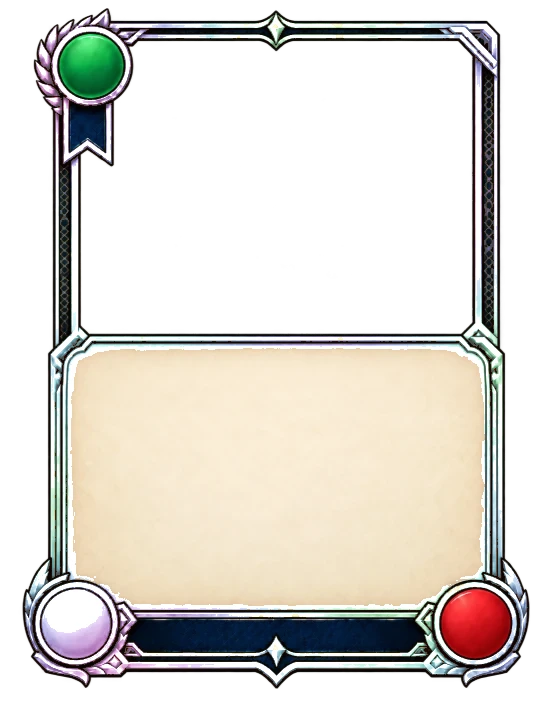
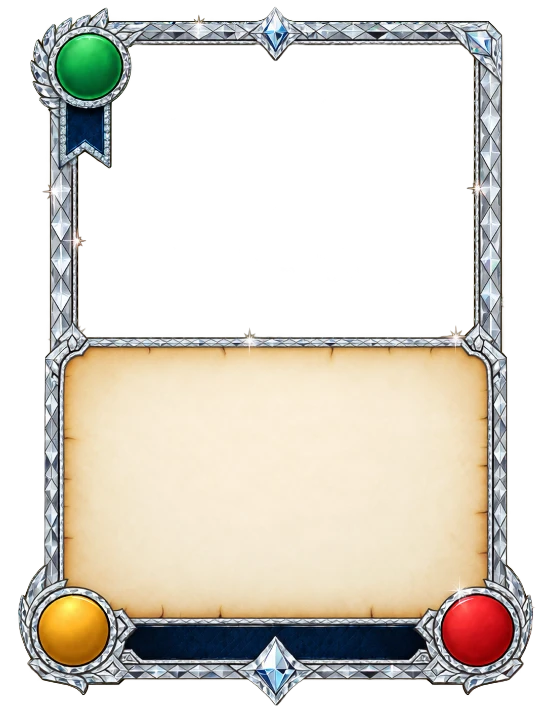
Card frames: the ten ranked frames replace the old set; a ladder and four finishes; Events keep theirs
The supplied frames (wood, bronze, silver, tiger's eye, turquoise, emerald, amethyst, ruby, onyx, diamond; 1047x1411, one geometry) are fitted into the card's 1103x1426 box and exported at full and small size, and every position on the card face is re-measured for them from the frame's own pixels: the art window, the cost disc, the pennant and its icon, the parchment body, the foot band's two word spaces, and the Influence and Force discs.

The ladder is Wood, Bronze (3), Silver (8), Emerald (14), Ruby (20), Diamond (30); cost sets the starting rank (0-1 Wood, 2 Bronze, 3 Silver, 4-5 Emerald, 6+ Ruby), nothing starts at Diamond. Tiger's Eye, Turquoise, Amethyst and Onyx are finishes, cosmetic, for the store later; about a fifth of cards wear one now, by a stable hash weighted by rarity, so the deck rows carry a mix. The parchment rules, pennant icon and Codex medal take each frame's accent. Events are exempt: they keep their current frame and show no rank row. The old gold export and its remaps are removed.

Claude-Session: https://claude.ai/code/session_01CdCWBBELLp3cWMWqqhgQtC

Changed region(s): [[0.0308, 0.0, 0.9855, 0.986]]

diff --git a/src/ui/theme.css b/src/ui/theme.css
@@ -1506,17 +1506,18 @@ body.board-shake .battlefield { animation: board-shake 0.32s cubic-bezier(0.36, 
 /* ---------- Card ranks ---------- */
 /* Bronze, silver, gold: the frame file changes (Frame in CardFace.tsx) and the gold accents on the parchment and the
    pennant follow it. Everything else on the card is the same at every rank. */
-.card.tpl { --rank-line: #c9a53a; --rank-ink: #f6d77a; }
-.card.tpl.rank-silver { --rank-line: #9aa3b2; --rank-ink: #e6ebf2; }
+.card.tpl { --rank-line: #a5763c; --rank-ink: #e2b878; }
+.card.tpl.rank-wood { --rank-line: #a5763c; --rank-ink: #e2b878; }
 .card.tpl.rank-bronze { --rank-line: #a86a34; --rank-ink: #e8a86a; }
+.card.tpl.rank-silver { --rank-line: #9aa3b2; --rank-ink: #e6ebf2; }
+.card.tpl.rank-tigers-eye { --rank-line: #b8772a; --rank-ink: #f0b45a; }
+.card.tpl.rank-turquoise { --rank-line: #3aa6a0; --rank-ink: #a7f0ea; }
+.card.tpl.rank-emerald { --rank-line: #2f9a5a; --rank-ink: #9ff0b8; }
+.card.tpl.rank-amethyst { --rank-line: #8a5bc4; --rank-ink: #d9b8ff; }
+.card.tpl.rank-ruby { --rank-line: #c0303a; --rank-ink: #ffb0b6; }
+.card.tpl.rank-onyx { --rank-line: #4a4a55; --rank-ink: #d8d8e0; }
 .card.tpl.rank-diamond { --rank-line: #9fdcff; --rank-ink: #f2fbff; }
-/* The glare: a soft white band, screened over the frame, that crosses it once every five seconds. Masked to the frame
-   image so it lights only the metal. Unity: a scrolling additive sprite under the frame's alpha, on a 5 s timer. */
-.card.tpl .tpl-glare { position: absolute; inset: 0; z-index: 2; overflow: hidden; pointer-events: none; mask-size: 100% 100%; -webkit-mask-size: 100% 100%; mask-repeat: no-repeat; -webkit-mask-repeat: no-repeat; }
-.card.tpl .tpl-glare::before { content: ''; position: absolute; top: -20%; bottom: -20%; left: 0; width: 100%; mix-blend-mode: screen; background: linear-gradient(105deg, rgba(255, 255, 255, 0) 30%, rgba(210, 240, 255, 0.38) 42%, rgba(255, 255, 255, 0.8) 50%, rgba(210, 240, 255, 0.38) 58%, rgba(255, 255, 255, 0) 70%); transform: translateX(-120%); animation: tpl-glare 5s linear infinite; }
-@keyframes tpl-glare { 0% { transform: translateX(-120%); } 26% { transform: translateX(120%); } 100% { transform: translateX(120%); } }
-@media (prefers-reduced-motion: reduce) { .card.tpl .tpl-glare::before { animation: none; opacity: 0; } }
-.card.tpl.rank-diamond .tpl-kind svg { filter: drop-shadow(0 0.27cqw 0.45cqw rgba(0, 0, 0, 0.85)) drop-shadow(0 0 0.6cqw rgba(160, 225, 255, 0.7)); }
+.card.tpl.event { --rank-line: #c9a53a; --rank-ink: #f6d77a; }
 .card.tpl .tpl-meta { border-bottom-color: var(--rank-line); }
 .card.tpl .tpl-sep::before, .card.tpl .tpl-sep::after { border-top-color: var(--rank-line); }
 .card.tpl .tpl-blurb { border-top-color: var(--rank-line); }
@@ -1524,9 +1525,15 @@ body.board-shake .battlefield { animation: board-shake 0.32s cubic-bezier(0.36, 
 .card.tpl .tpl-rules { scrollbar-color: var(--rank-line) transparent; }
 /* In the Codex: the rank under the card and the way up. */
 .cx-rank { display: flex; align-items: center; justify-content: center; gap: 10px; margin-top: 10px; font-family: var(--display); font-size: 11px; letter-spacing: 0.14em; text-transform: uppercase; color: #cfc3a6; }
-.cx-rank-medal { width: 14px; height: 14px; border-radius: 50%; border: 1.5px solid rgba(0, 0, 0, 0.6); box-shadow: 0 0 0 1px rgba(255, 255, 255, 0.15), 0 2px 6px rgba(0, 0, 0, 0.6); background: radial-gradient(circle at 35% 30%, #f6d77a, #c99a2a 55%, #8a6a14); }
-.cx-rank.rank-silver .cx-rank-medal { background: radial-gradient(circle at 35% 30%, #f4f7fb, #b9c1cc 55%, #6f7885); }
+.cx-rank-medal { width: 14px; height: 14px; border-radius: 50%; border: 1.5px solid rgba(0, 0, 0, 0.6); box-shadow: 0 0 0 1px rgba(255, 255, 255, 0.15), 0 2px 6px rgba(0, 0, 0, 0.6); background: radial-gradient(circle at 35% 30%, #d9a86a, #8a5a2a 55%, #4a2e12); }
 .cx-rank.rank-bronze .cx-rank-medal { background: radial-gradient(circle at 35% 30%, #f0b27a, #b5713a 55%, #6e4220); }
+.cx-rank.rank-silver .cx-rank-medal { background: radial-gradient(circle at 35% 30%, #f4f7fb, #b9c1cc 55%, #6f7885); }
+.cx-rank.rank-tigers-eye .cx-rank-medal { background: radial-gradient(circle at 35% 30%, #ffd07a, #b8772a 55%, #5a3410); }
+.cx-rank.rank-turquoise .cx-rank-medal { background: radial-gradient(circle at 35% 30%, #c8fff9, #3aa6a0 55%, #1d5a58); }
+.cx-rank.rank-emerald .cx-rank-medal { background: radial-gradient(circle at 35% 30%, #b8ffd0, #2f9a5a 55%, #14522c); }
+.cx-rank.rank-amethyst .cx-rank-medal { background: radial-gradient(circle at 35% 30%, #efd9ff, #8a5bc4 55%, #45266b); }
+.cx-rank.rank-ruby .cx-rank-medal { background: radial-gradient(circle at 35% 30%, #ffc8cc, #c0303a 55%, #5e1218); }
+.cx-rank.rank-onyx .cx-rank-medal { background: radial-gradient(circle at 35% 30%, #9a9aa8, #3a3a44 55%, #101014); }
 .cx-rank.rank-diamond .cx-rank-medal { background: radial-gradient(circle at 35% 30%, #ffffff, #cfeeff 40%, #8fb8d8 70%, #4d6f8f); box-shadow: 0 0 0 1px rgba(255, 255, 255, 0.35), 0 0 10px rgba(160, 225, 255, 0.8); }
 .cx-rank-btn { font-size: 11px; padding: 4px 12px; }
 .cx-rank-btn:disabled { opacity: 0.45; cursor: not-allowed; }
@@ -1599,7 +1606,7 @@ body.board-shake .battlefield { animation: board-shake 0.32s cubic-bezier(0.36, 
 .card.tpl.big { --bw: min(78vw, 400px); width: var(--bw); height: auto; aspect-ratio: 1103 / 1426; display: block; max-height: none; }
 .card.tpl > * { position: absolute; }
 /* The art window. */
-.card.tpl .tpl-art { left: 13.4cqw; top: 6.9cqw; width: 73.4cqw; height: 54.6cqw; z-index: 1; overflow: hidden; display: grid; place-items: center; }
+.card.tpl .tpl-art { left: 14.2cqw; top: 7.6cqw; width: 71.5cqw; height: 53.3cqw; z-index: 1; overflow: hidden; display: grid; place-items: center; }
 .card.tpl.event .tpl-art { left: 10.3cqw; top: 7.4cqw; width: 79.6cqw; height: 57.5cqw; }
 .card.tpl .tpl-art .tpl-art-img { position: absolute; inset: 0; width: 100%; height: 100%; object-fit: cover; object-position: center 18%; }
 .card.tpl .tpl-art .ini { font-family: var(--display); font-weight: 800; font-size: 18cqw; color: rgba(255, 255, 255, 0.85); }
@@ -1609,17 +1616,17 @@ body.board-shake .battlefield { animation: board-shake 0.32s cubic-bezier(0.36, 
 .card.tpl.event .tpl-note { right: 13cqw; top: 54cqw; }
 /* The medallions: cost top-left, Influence and Force bottom corners (the Event frame has laurels there instead). */
 .card.tpl .tpl-num { z-index: 5; font-family: var(--display); font-weight: 800; color: #fff; text-align: center; transform: translate(-50%, -50%); line-height: 1; text-shadow: 0 0.45cqw 0.9cqw rgba(0, 0, 0, 0.9), 0 0 1.4cqw rgba(0, 0, 0, 0.7), 0 0.18cqw 0.27cqw rgba(0, 0, 0, 0.9); }
-.card.tpl .tpl-cost { left: 16.5cqw; top: 11.8cqw; font-size: max(8.3cqw, 13px); }
+.card.tpl .tpl-cost { left: 16.06cqw; top: 12.1cqw; font-size: max(8.3cqw, 13px); }
 .card.tpl.event .tpl-cost { left: 14cqw; top: 13.6cqw; font-size: max(9cqw, 11px); }
 .card.tpl .tpl-cost.discounted { color: #d8ffe4; filter: drop-shadow(0 0 0.8cqw #7ef0a0); }
-.card.tpl .tpl-inf { left: 13.6cqw; top: 112.9cqw; font-size: max(9cqw, 14px); }
-.card.tpl .tpl-force { left: 85.7cqw; top: 112.9cqw; font-size: max(9cqw, 14px); }
+.card.tpl .tpl-inf { left: 13.2cqw; top: 114.2cqw; font-size: max(9cqw, 14px); }
+.card.tpl .tpl-force { left: 86.4cqw; top: 114.2cqw; font-size: max(9cqw, 14px); }
 .card.tpl .tpl-ev { display: none; }
-.card.tpl .tpl-kind { z-index: 5; left: 15.8cqw; top: 22.1cqw; transform: translate(-50%, -50%); width: 4.4cqw; height: 4.4cqw; }
+.card.tpl .tpl-kind { z-index: 5; left: 15.4cqw; top: 23.1cqw; transform: translate(-50%, -50%); width: 4.4cqw; height: 4.4cqw; }
 .card.tpl.event .tpl-kind { left: 13.65cqw; top: 24.3cqw; width: 4.6cqw; height: 4.6cqw; }
 .card.tpl .tpl-kind svg { width: 100%; height: 100%; fill: none; stroke: var(--rank-ink, #f6d77a); stroke-width: 5; stroke-linejoin: round; stroke-linecap: round; filter: drop-shadow(0 0.27cqw 0.45cqw rgba(0, 0, 0, 0.85)); }
 /* The parchment: name, meta line, rules. */
-.card.tpl .tpl-body { z-index: 3; left: 15cqw; right: 14.3cqw; top: 65cqw; height: 39cqw; display: flex; flex-direction: column; align-items: stretch; gap: 0; }
+.card.tpl .tpl-body { z-index: 3; left: 14.9cqw; right: 14.9cqw; top: 64.1cqw; height: 41.3cqw; display: flex; flex-direction: column; align-items: stretch; gap: 0; }
 .card.tpl.event .tpl-body { left: 13cqw; right: 12.8cqw; top: 67.5cqw; height: 37cqw; }
 .card.tpl .tpl-name { position: static; display: flex; justify-content: center; align-items: center; flex: none; width: 100%; font-family: var(--display); font-weight: 800; font-size: max(6.2cqw, 11px); line-height: 1.08; letter-spacing: 0.02em; color: #14110c; white-space: nowrap; padding: 0.4cqw 0 0; transform-origin: 50% 50%; overflow: visible; text-shadow: none; }
 .card.tpl .tpl-name.long { font-size: max(5.2cqw, 10px); }
@@ -1636,10 +1643,10 @@ body.board-shake .battlefield { animation: board-shake 0.32s cubic-bezier(0.36, 
 .card.tpl .tpl-sep::before { left: 0; } .card.tpl .tpl-sep::after { right: 0; }
 .card.tpl .tpl-blurb { margin-top: 1.3cqw; padding-top: 1.1cqw; border-top: 0.18cqw dotted #c9a53a; font-style: italic; color: #4a3f28; font-size: 3.5cqw; }
 /* The bottom band: the Character's tags; the Event band has a gem through its middle and carries nothing. */
-/* The band at the foot: the navy runs x 272-833 of the 1103-wide frame and its centre diamond rises to a tip at
-   x 551, so the band is two word spaces (280-522 and 581-823) either side of a gap the diamond owns, each word
+/* The band at the foot (ranked frame, in the 1103 box): the navy runs x 270-835 and its centre diamond rises to a tip
+   at x 551, so the band is two word spaces (275-528 and 573-826) either side of a gap the diamond owns, each word
    centred in its own half. */
-.card.tpl .tpl-strip { z-index: 3; left: 25.4cqw; right: 25.4cqw; top: 112cqw; height: 5.9cqw; display: grid; grid-template-columns: 1fr 5.4cqw 1fr; align-items: center; font-family: var(--display); font-weight: 600; font-size: 2.3cqw; letter-spacing: 0.14em; text-transform: uppercase; line-height: 1.1; color: var(--parchment); text-shadow: 0 0.18cqw 0.27cqw rgba(0, 0, 0, 0.7); white-space: nowrap; }
+.card.tpl .tpl-strip { z-index: 3; left: 24.9cqw; right: 25.1cqw; top: 113cqw; height: 5.6cqw; display: grid; grid-template-columns: 1fr 4.1cqw 1fr; align-items: center; font-family: var(--display); font-weight: 600; font-size: 2.3cqw; letter-spacing: 0.14em; text-transform: uppercase; line-height: 1.1; color: var(--parchment); text-shadow: 0 0.18cqw 0.27cqw rgba(0, 0, 0, 0.7); white-space: nowrap; }
 .card.tpl .tpl-strip-l, .card.tpl .tpl-strip-r { min-width: 0; text-align: center; overflow: hidden; text-overflow: ellipsis; padding: 0 0.3cqw; }
 .card.tpl .tpl-strip-r { grid-column: 3; }
 .card.tpl .tpl-strip .long { font-size: 1.95cqw; letter-spacing: 0.1em; }
@@ -1658,10 +1665,10 @@ body.board-shake .battlefield { animation: board-shake 0.32s cubic-bezier(0.36, 
 .card.tpl:not(.big) .tpl-name > span { display: block; width: 100%; text-align: center; }
 /* Small card faces (landing row, hand, Codex grid) read the kind icon at 8px: it sits a little higher than on the big
    card and is drawn larger with a heavier stroke and a hard one-pixel shadow instead of a blur, which only smudged it. */
-.card.tpl:not(.big) .tpl-kind { width: 4.6cqw; height: 4.6cqw; top: 20.2cqw; }
+.card.tpl:not(.big) .tpl-kind { width: 4.6cqw; height: 4.6cqw; top: 21.2cqw; }
 .card.tpl:not(.big) .tpl-kind svg { stroke-width: 7.5; filter: drop-shadow(0 0.6px 0 rgba(0, 0, 0, 0.9)); }
 /* In the match, the book (Historical) sits a little higher on the small cards; each icon gets its own spacing from here on. */
-.app .card.tpl:not(.big).k-historical .tpl-kind { top: 19.4cqw; }
-.app .card.tpl:not(.big).k-artist .tpl-kind { top: 19.4cqw; }
+.app .card.tpl:not(.big).k-historical .tpl-kind { top: 20.4cqw; }
+.app .card.tpl:not(.big).k-artist .tpl-kind { top: 20.4cqw; }
 .card.tpl:not(.big) .tpl-summary { font-size: max(4.4cqw, 11px); display: -webkit-box; -webkit-line-clamp: 3; -webkit-box-orient: vertical; overflow: hidden; }
 .deck-cards .card.tpl .tpl-num { font-size: max(9cqw, 16px); }

diff --git a/src/ui/legacy.ts b/src/ui/legacy.ts
@@ -7,11 +7,18 @@ import { CARD_BY_ID } from '../engine';
  * gold frame on the same card, the same numbers. A card's cost sets where it starts; Legacy raises it from there. Local for now (localStorage); the account is meant to own it later
  * (docs/economy.md). Unity: the same shape as a save file, the ranks a dictionary keyed by card id.
  */
-export type Rank = 'bronze' | 'silver' | 'gold' | 'diamond';
-export const RANKS: Rank[] = ['bronze', 'silver', 'gold', 'diamond'];
+export type Rank = 'wood' | 'bronze' | 'silver' | 'emerald' | 'ruby' | 'diamond';
+/** The ladder, bought with Legacy. */
+export const RANKS: Rank[] = ['wood', 'bronze', 'silver', 'emerald', 'ruby', 'diamond'];
 /** What the next rank costs, in Legacy. A plain win pays 1; a Stand taken early pays 4 to 16. No card starts at Diamond. */
-export const RANK_PRICE: Record<Rank, number> = { bronze: 0, silver: 3, gold: 8, diamond: 20 };
-export const RANK_LABEL: Record<Rank, string> = { bronze: 'Bronze', silver: 'Silver', gold: 'Gold', diamond: 'Diamond' };
+export const RANK_PRICE: Record<Rank, number> = { wood: 0, bronze: 3, silver: 8, emerald: 14, ruby: 20, diamond: 30 };
+export const RANK_LABEL: Record<Rank, string> = { wood: 'Wood', bronze: 'Bronze', silver: 'Silver', emerald: 'Emerald', ruby: 'Ruby', diamond: 'Diamond' };
+/** Finishes: frames outside the ladder, cosmetic, for the store later. Shown now on a few cards so the decks carry a mix. */
+export type Finish = 'tigers-eye' | 'turquoise' | 'amethyst' | 'onyx';
+export const FINISHES: Finish[] = ['tigers-eye', 'turquoise', 'amethyst', 'onyx'];
+export const FINISH_LABEL: Record<Finish, string> = { 'tigers-eye': "Tiger's Eye", turquoise: 'Turquoise', amethyst: 'Amethyst', onyx: 'Onyx' };
+/** Every frame a card can wear. */
+export type FrameId = Rank | Finish;
 
 export interface Ledger {
   banked: number;
@@ -69,10 +76,32 @@ export function bank(delta: number, why: string): void {
   if (!(delta > 0)) return;
   commit({ ...ledger, banked: ledger.banked + delta, log: [...ledger.log, { at: new Date().toISOString(), delta, why }].slice(-50) });
 }
-/** Where a card starts: its printed cost sets the rank (0-1 Bronze, 2-3 Silver, 4 and up Gold; never Diamond); Legacy raises it. */
+/** Where a card starts: its printed cost sets the rank (0-1 Wood, 2 Bronze, 3 Silver, 4-5 Emerald, 6 and up Ruby; never Diamond); Legacy raises it. */
 export function baseRank(cardId: string): Rank {
   const cost = (CARD_BY_ID[cardId] as { cost?: number } | undefined)?.cost ?? 1;
-  return cost >= 4 ? 'gold' : cost >= 2 ? 'silver' : 'bronze';
+  return cost >= 6 ? 'ruby' : cost >= 4 ? 'emerald' : cost >= 3 ? 'silver' : cost >= 2 ? 'bronze' : 'wood';
+}
+/** A small stable hash of a card id, 0..1. */
+function hash01(id: string): number {
+  let h = 2166136261;
+  for (let i = 0; i < id.length; i++) h = Math.imul(h ^ id.charCodeAt(i), 16777619);
+  return ((h >>> 0) % 10000) / 10000;
+}
+/**
+ * The finish a card wears for now, by rarity: about one card in five, Tiger's Eye the most common and Onyx the rarest.
+ * A preview of the store's frames; once finishes are owned and equipped this reads the profile instead.
+ */
+export function finishOf(cardId: string): Finish | null {
+  const r = hash01(cardId);
+  if (r < 0.1) return 'tigers-eye';
+  if (r < 0.16) return 'turquoise';
+  if (r < 0.2) return 'amethyst';
+  if (r < 0.22) return 'onyx';
+  return null;
+}
+/** The frame on the card: a finish if it wears one, otherwise its rank. */
+export function frameOf(cardId: string): FrameId {
+  return finishOf(cardId) ?? rankOf(cardId);
 }
 /** Showcase: ranks held for review, above anything bought. Remove before release; nothing should start at Diamond. */
 const SHOWCASE_RANKS: Record<string, Rank> = { frederick_douglass: 'diamond' };

diff --git a/src/ui/components/CardFace.tsx b/src/ui/components/CardFace.tsx
@@ -1,7 +1,7 @@
 import { CARD_BY_ID, type CharacterInstance, type GameState, charInfluence, isSuppressed } from '../../engine';
 import { abilityLines, cardName, cardShort, hueFor, initials, useDisplay } from '../display';
 import { useLayoutEffect, useRef, useState } from 'react';
-import { rankOf, useLedger, type Rank } from '../legacy';
+import { frameOf, useLedger, type FrameId } from '../legacy';
 import { Art } from './Art';
 import { artMissing, artUrl, markArtMissing } from '../art';
 import { tip, HINTS } from '../tip';
@@ -126,12 +126,12 @@ const KIND_ICONS: Record<CardKind, React.ReactNode> = {
  * The frame: the designer's PNG with its window knocked out, exported as WebP at two sizes (public/art/frames). Events
  * take their own frame when it exists and the Character frame until then; a missing file falls back the same way.
  */
-/* The frame at a rank: the gold export is the original; silver and bronze are the same file with only its gold pixels
-   remapped (scratch script), so the medallions, the navy and the parchment are identical across ranks. */
-function Frame({ kind, big, rank }: { kind: 'character' | 'event'; big: boolean; rank: Rank }) {
+/* The frame a card wears: one of the ten ranked exports (public/art/frames/character-<frame>.webp, fitted into the
+   card's box by a scratch script). Events keep their own frame and are exempt from ranks for now. */
+function Frame({ kind, big, rank }: { kind: 'character' | 'event'; big: boolean; rank: FrameId }) {
   const size = big ? '' : '-sm';
-  const want = `${kind}${size}${rank === 'gold' ? '' : `-${rank}`}`;
-  const back = `character${size}`;
+  const want = kind === 'event' ? `event${size}` : `character${size}-${rank}`;
+  const back = `character${size}-wood`;
   const [id, setId] = useState(() => (artMissing('frames', want) ? back : want));
   useLayoutEffect(() => {
     setId(artMissing('frames', want) ? back : want);
@@ -155,7 +155,7 @@ function Frame({ kind, big, rank }: { kind: 'character' | 'event'; big: boolean;
 export function CardFace({ id, big = false, onClick, cost, costWhy, note }: { id: string; big?: boolean; onClick?: () => void; /** Cost right now, after discounts (defaults to the printed cost). */ cost?: number; costWhy?: string[]; /** A live chip over the art (Reparations: the Setback count). */ note?: string }) {
   const { placeholders } = useDisplay();
   useLedger();
-  const rank = rankOf(id);
+  const rank = frameOf(id);
   const def = CARD_BY_ID[id];
   if (!def) return null;
   const isChar = def.kind === 'character';

diff --git a/src/ui/components/CodexSheet.tsx b/src/ui/components/CodexSheet.tsx
@@ -3,7 +3,7 @@ import { CARD_BY_ID } from '../../engine';
 import { CardFace } from './CardFace';
 import { cardName, useDisplay } from '../display';
 import { sfx } from '../audio';
-import { RANK_LABEL, RANK_PRICE, balance, nextRank, promote, rankOf, useLedger } from '../legacy';
+import { FINISH_LABEL, RANK_LABEL, RANK_PRICE, balance, finishOf, nextRank, promote, rankOf, useLedger } from '../legacy';
 import { tip } from '../tip';
 import { RefsModal } from './RefsModal';
 import '../compendium.css';
@@ -20,6 +20,7 @@ export function CodexSheet({ id, label, onClose, children, flat }: { id: string;
   const [open, setOpen] = useState(false);
   useLedger();
   const rank = rankOf(id);
+  const finish = finishOf(id);
   const next = nextRank(id);
   const price = next ? RANK_PRICE[next] : 0;
   const can = !!next && balance() >= price;
@@ -98,9 +99,10 @@ export function CodexSheet({ id, label, onClose, children, flat }: { id: string;
             </button>
           )}
           {/* The card's rank, and the way up: Legacy buys the next frame. Cosmetic only; the numbers never change. */}
-          <div className={`cx-rank rank-${rank} ${flash ? 'flash' : ''}`}>
+          {def.kind === 'character' && (
+          <div className={`cx-rank rank-${finish ?? rank} ${flash ? 'flash' : ''}`}>
             <span className="cx-rank-medal" aria-hidden />
-            <span className="cx-rank-lbl">{RANK_LABEL[rank]} rank</span>
+            <span className="cx-rank-lbl">{finish ? `${FINISH_LABEL[finish]} finish · ${RANK_LABEL[rank]} rank` : `${RANK_LABEL[rank]} rank`}</span>
             {next ? (
               <button
                 className="cx-btn cx-ctl cx-rank-btn"
@@ -120,6 +122,7 @@ export function CodexSheet({ id, label, onClose, children, flat }: { id: string;
               <span className="cx-rank-max">Highest rank</span>
             )}
           </div>
+          )}
           {children && <div className="cx-tray">{children}</div>}
         </div>
         {history && (

diff --git a/docs/economy.md b/docs/economy.md
@@ -1,24 +1,35 @@
 # The Legacy economy
 
-## Built: card ranks (bronze, silver, gold)
+## Built: card frames, ranked and finished
 
-The first sink is live. A card's printed cost sets where it starts: 0 and 1 at **Bronze**, 2 and 3 at **Silver**, 4 and up at **Gold**. Legacy promotes it from there, to **Silver** (3), **Gold** (8) and **Diamond** (20). No card starts at Diamond, so every card has a rank still to earn; the Diamond frame is the gold export pushed through a chrome curve with a prism sheen.
-A rank is a frame and nothing else: the same card, the same numbers, on a bronze, silver or gold frame, wherever
-the card shows (the hand, the Codex, the landing row). The frames are the one gold export with only its gold pixels
-remapped (the medallions, the navy and the parchment are untouched), so no new artwork is needed per rank.
+Ten frames, one geometry, from the same hand: the ladder and the finishes.
+
+**The ladder** (bought with Legacy): **Wood** → **Bronze** (3) → **Silver** (8) → **Emerald** (14) → **Ruby** (20) → **Diamond** (30).
+A card's printed cost sets where it starts: 0 and 1 at Wood, 2 at Bronze, 3 at Silver, 4 and 5 at Emerald, 6 and up
+at Ruby. Nothing starts at Diamond, so every card has a rank still to earn. Diamond carries a glare that sweeps the
+frame every five seconds.
+
+**The finishes** (cosmetic, for the store later): **Tiger's Eye**, **Turquoise**, **Amethyst**, **Onyx**. A finish is
+worn in place of the rank's frame; the rank is still there underneath and still climbs. Until finishes are owned and
+equipped, about one card in five wears one, picked by a stable hash of its id and weighted by rarity (Tiger's Eye
+the most common, Onyx the rarest), so the deck rows carry a mix from the first visit.
+
+Every frame is the same 1047×1411 export fitted into the card's 1103×1426 box, so one set of positions serves all
+ten. **Events are exempt** for now: they keep their own frame, take no rank, and show no rank row in the Codex.
 
 - **Earning.** A match won pays its Legacy to the winner (1 for a plain win, 4 to 16 behind an early Stand). The
   tutorial pays nothing. Losing takes nothing.
 - **Spending.** Open a card (the Codex, from the landing row or the Cards screen) and promote it; the button says
   the price and what you have. The landing corner shows the wallet.
 - **Where it lives.** `src/ui/legacy.ts`: the ledger (`banked`, `spent`, `ranks` by card id, a short log) in
-  localStorage under `bhcb.legacy.v1`, with `bank`, `promote`, `rankOf` and a `useLedger` hook. `CardFace` reads the
-  rank for the frame and the accents; `CodexSheet` shows the rank and the button; `MatchScreen` banks a win.
+  localStorage under `bhcb.legacy.v1`, with `bank`, `promote`, `rankOf`, `finishOf`, `frameOf` and a `useLedger`
+  hook. `CardFace` reads the frame for the image and the accents; `CodexSheet` shows the rank (and the finish) and
+  the button; `MatchScreen` banks a win.
 - **Dev.** `?dev=1&legacy=20` grants 20 Legacy once per page load, to review ranks without playing.
 - **Unity.** The ledger is a save-file shape (an int, an int, a dictionary of card id to rank, a list of entries);
-  the three frames are three sprites, or one sprite with a hue-remap material; the rank badge and the promote button
-  are the same two controls on the card view. The rule that a rank changes nothing in the engine holds there too:
-  the engine never reads the ledger.
+  the frames are ten sprites sharing one layout; the rank badge and the promote button are the same two controls on
+  the card view. The rule that a rank changes nothing in the engine holds there too: the engine never reads the
+  ledger.
 
 ## The rest (design note, not built)
 

diff --git a/README.md b/README.md
@@ -64,7 +64,7 @@ Developer tools (`?dev=1` or the button on the start screen): fixed seeds, AI re
 - **Sundown Town and allies.** Curfew never holds Harriet Tubman herself. John Brown does not experience the town's rules: no curfew, never run out, and while he is at that Location one friendly Character who would be run out at the end of the turn (the highest Influence first) hides with him overnight instead.
 - **Gate wait timing.** A Character played on turn N is Fresh through turn N+1's planning and becomes Ready at the end of N+1, so it can enter on N+2. This is the reading that makes "becomes Ready immediately" effects (Harriet, Organizer, Juneteenth) worth a full turn. If playtesting says the wait is too long, the one-line change is in the cleanup step of `resolve.ts`.
 - **References.** Every history ends with a References link: a modal listing the sources for that card, Location or Threat (`src/engine/content/references.ts`), with a shareable deep link (`#refs=<id>`) into the Compendium, where each Location and Threat plate carries the same link. `npm run refs:check` confirms every URL answers; the first pass was written without network access and should be run before a release.
-- **Card ranks.** A card's cost sets its starting rank (0-1 Bronze, 2-3 Silver, 4+ Gold); Legacy won in matches promotes it to Silver (3), Gold (8) and Diamond (20, never a starting rank): the same card on a recoloured frame, nowhere else different. `docs/economy.md` has the rules, `src/ui/legacy.ts` the ledger.
+- **Card frames, ranked and finished.** Ten frames on one geometry. The ladder is bought with Legacy: Wood, Bronze (3), Silver (8), Emerald (14), Ruby (20), Diamond (30, never a starting rank); a card's cost sets where it starts. Four finishes (Tiger's Eye, Turquoise, Amethyst, Onyx) are cosmetic, for the store later, worn by about a fifth of cards for now. Events keep their own frame. `docs/economy.md` has the rules, `src/ui/legacy.ts` the ledger.
 - **Stand on Business** adds a 9th turn and removes Sit Down for the player who stood. The raise is part of the hidden plan and takes effect at the end of the *following* turn. Nobody is forced into a yes/no modal: the other player plans a normal turn with a banner showing the pending raise, and Sitting Down during that turn costs only the old Legacy. The multiplier rewards and punishes the early call (×4, ×3, ×2 by the turn it is declared; standing back multiplies again, max 16), so a turn-1 Stand is a real gamble and Harborlight only makes one from an overwhelming lead. A Stand on turn 8 adds turn 9 and lands with the final result. The button itself takes its cues from Marvel Snap: stomp, stomp, clap, and on the clap a gold burst, a jolt, the Legacy coin flipping to the new price and a roar that carries on.
 - **Day and night**: odd turns are day, even turns are night (`isNight`). A curfew is a condition of a Location, not a Threat: Sundown Town (`curfew: true`) lets nobody relocate out at night. The Justice System's two-turn hold is a separate rule. `lockReason(state, c)` is the one gate for both. Only curfew Locations show the time of day: a DAY or NIGHT tag on the panel, and at night `locations/<id>_night.jpg` when it exists, otherwise the day art darkened. The rest of the board looks the same day or night.
 - **Harriet Tubman** (Conductor) is the only card that ignores locks: her Reveal moves any friendly Character, Gate or Inside, straight Inside another Location when there is room, otherwise to its Gates Ready. Free and before entries.
